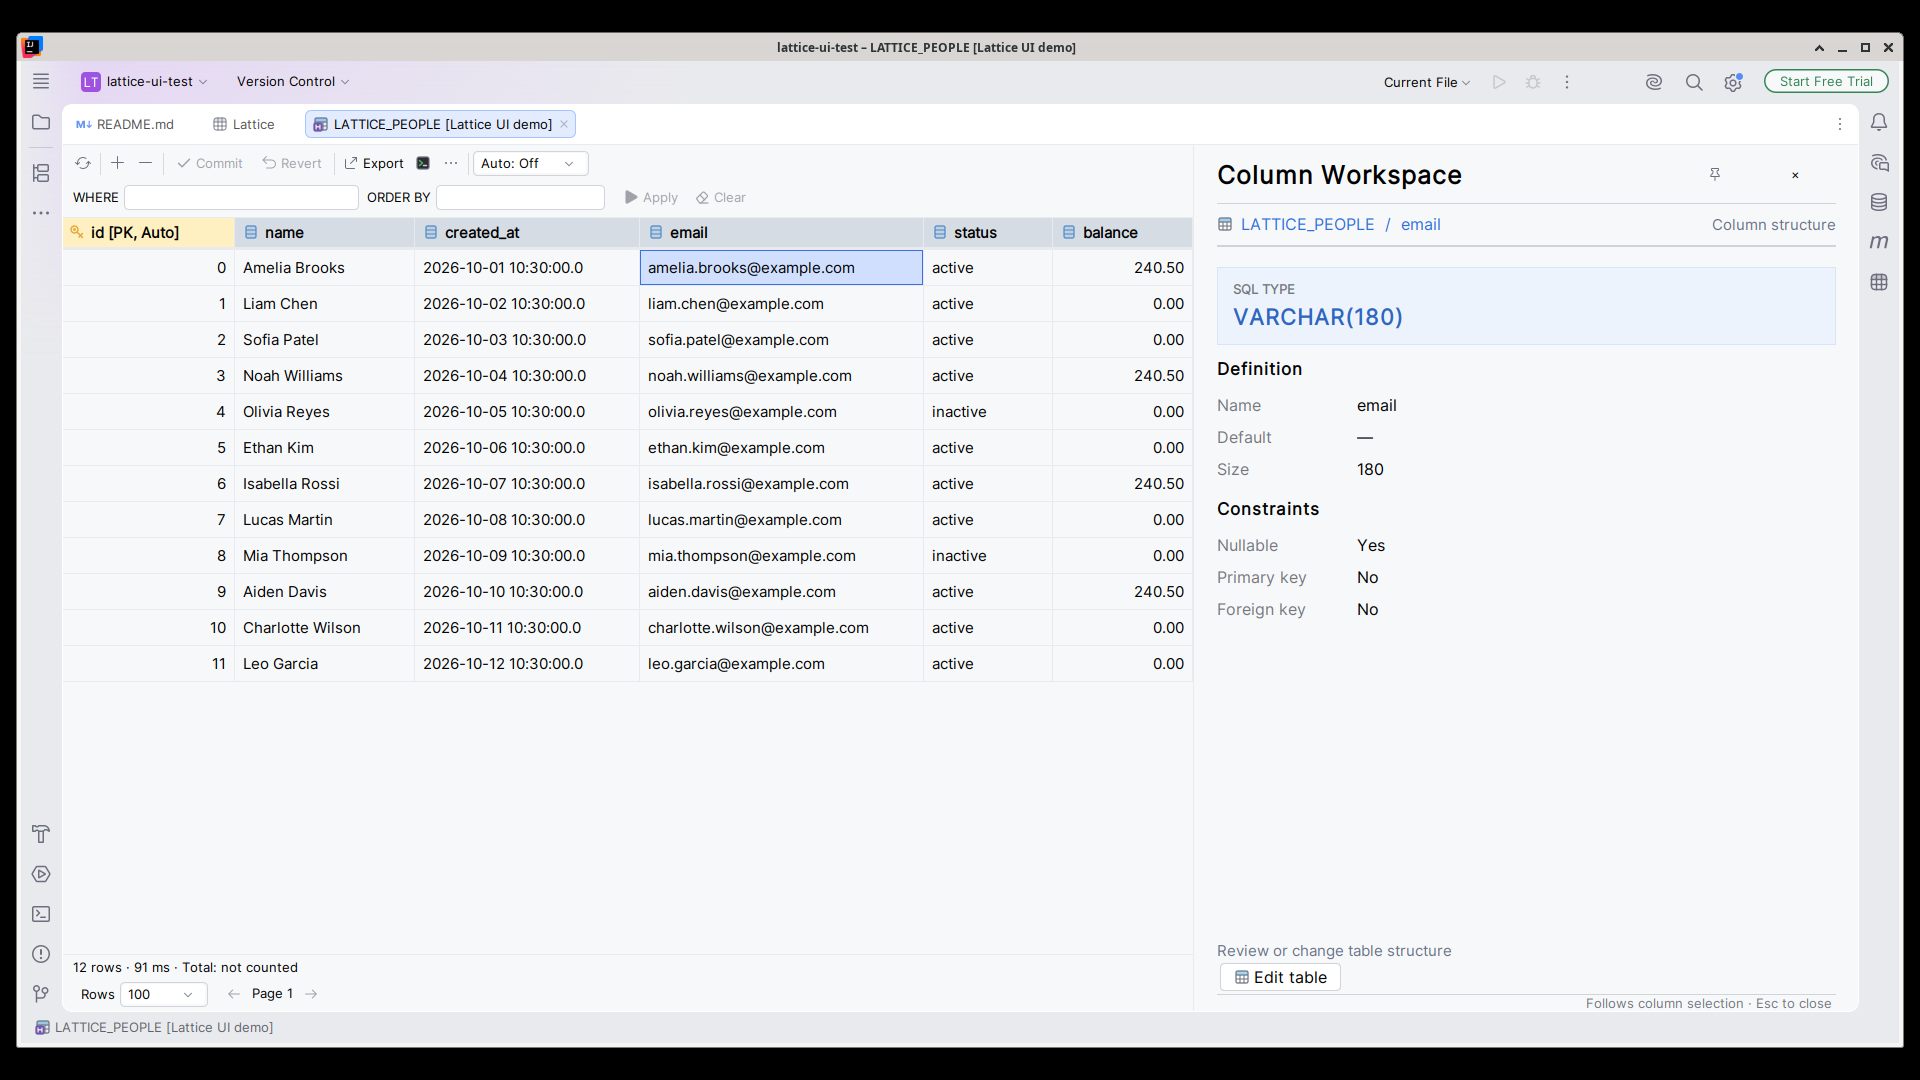
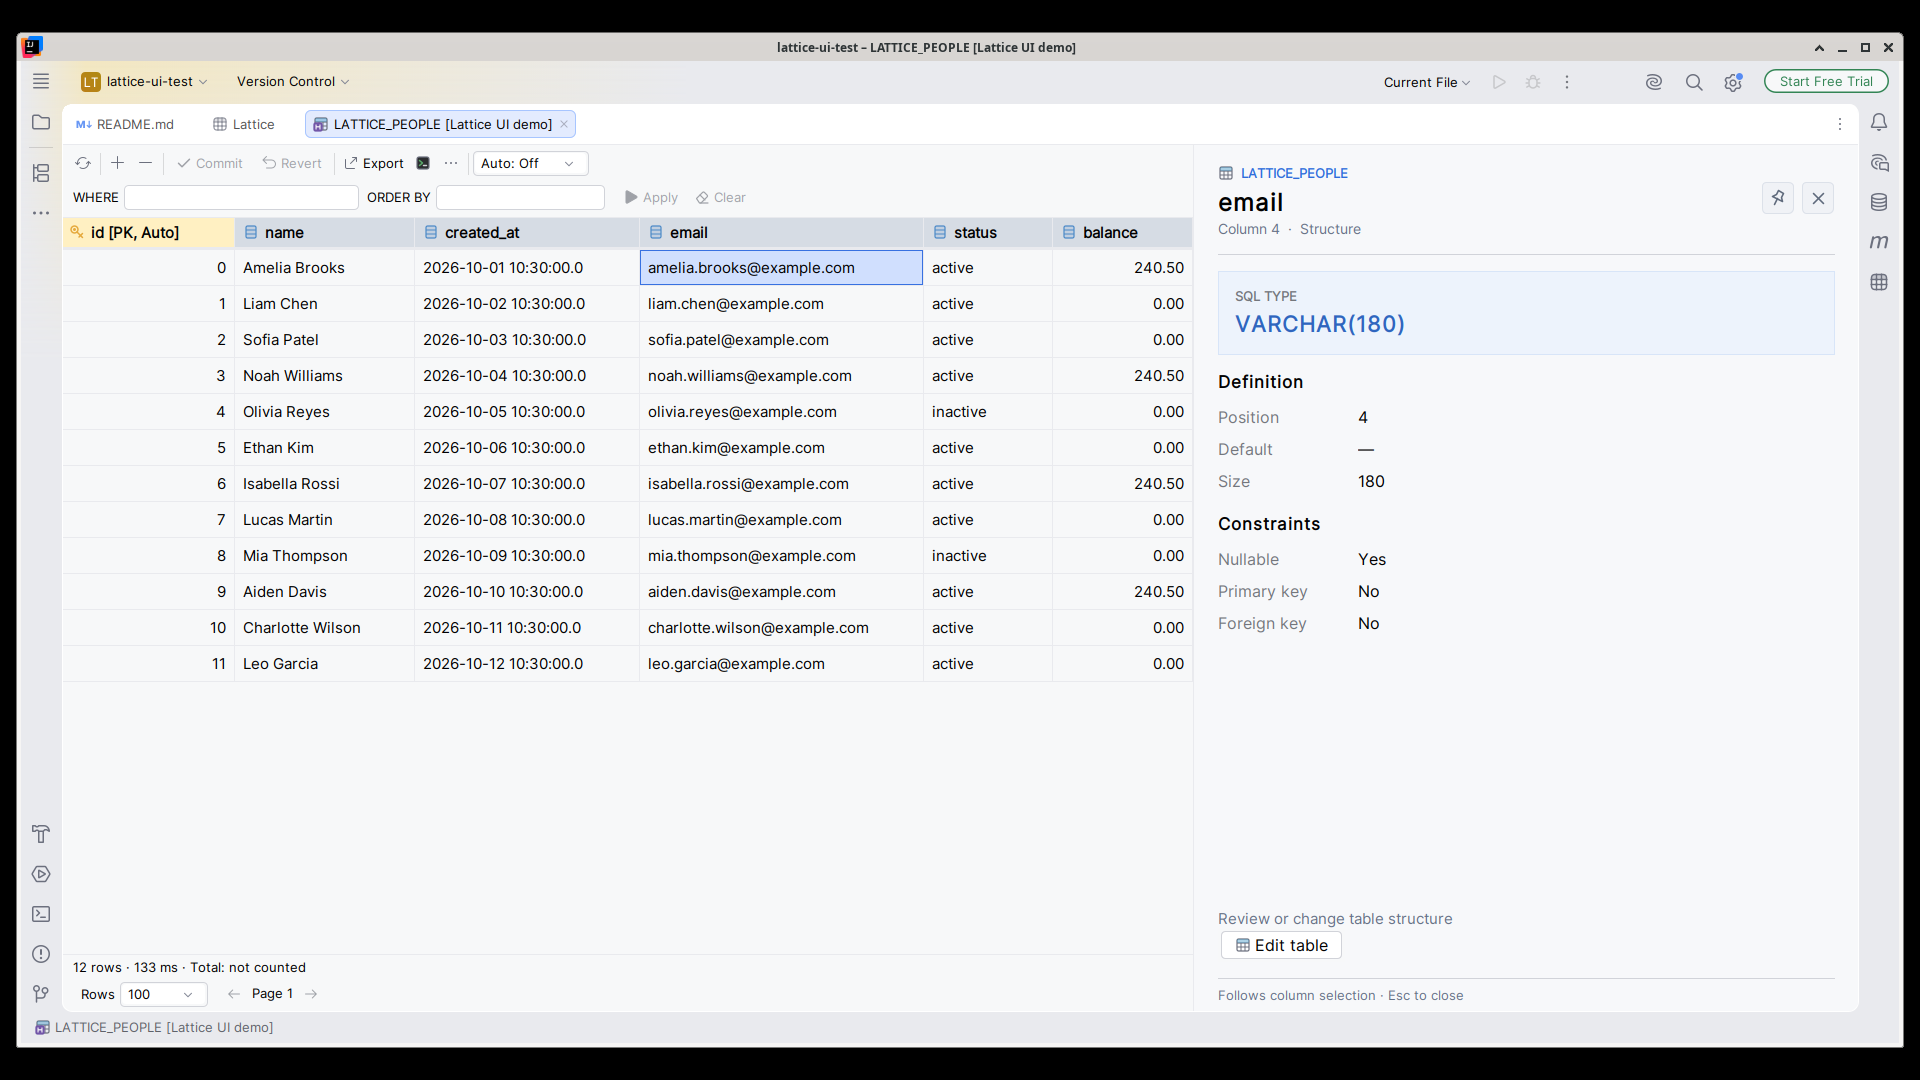
Save refined native inspector captures and correct close assertion

diff --git a/src/uiTest/kotlin/com/segfault03/ideadb/ui/IntellijUiScreenshotTest.kt b/src/uiTest/kotlin/com/segfault03/ideadb/ui/IntellijUiScreenshotTest.kt
@@ -1175,8 +1175,9 @@ class IntellijUiScreenshotTest {
                 val closeDetails = details.x { byAccessibleName("Close details panel") }.waitFound()
                 closeDetails.moveMouse(Point(closeDetails.component.width / 2, closeDetails.component.height / 2))
                 captureScreen(screenshotsDirectory.resolve("value-workspace-close-hover.png"))
+                val liveDetails = details.component
                 closeDetails.click()
-                waitUntil("close control removes the inspector from the editor") { !details.component.isShowing() }
+                waitUntil("close control removes the inspector from the editor") { !liveDetails.isShowing() }
                 dataGrid.clickCell(0, 3)
                 waitUntil("cell selection reopens the inspector after closing it") {
                     details.component.isShowing() && details.hasSubtext("Row 1") && details.hasSubtext("Column 4")

diff --git a/docs/SCRIPTS.md b/docs/SCRIPTS.md
@@ -130,7 +130,7 @@ Set `LATTICE_UI_IDE_HOME` to an installed Linux IDEA directory to launch another
 
 For a faster review of connection-dialog spacing, explorer overflow, table editor/menu surfaces, auto-refresh sizing and active glyph colors, set `LATTICE_UI_STYLE_ONLY=true` (direct Gradle: `-Plattice.ui.styleOnly=true`). This still opens and edits the production UI inside the full IDE, then stops after those checks; omit it for the complete review.
 
-For a focused native Value Workspace capture, set `LATTICE_UI_CELL_DETAILS_ONLY=true` with the Linux review wrapper (direct Gradle: `-Plattice.ui.review=true -Plattice.ui.cellDetailsOnly=true`). It opens the committed Ada Lovelace row in the real IDE, captures the cell details panel, verifies pin persistence while selecting another cell, opens column details from the header, double-clicks the value area into edit mode, and switches the running IDE through an available light theme and back. Screenshots and `runtime-evidence.txt` are written to the selected review output directory; the focused flow exits before the longer table review.
+For a focused native cell inspector capture, set `LATTICE_UI_CELL_DETAILS_ONLY=true` with the Linux review wrapper (direct Gradle: `-Plattice.ui.review=true -Plattice.ui.cellDetailsOnly=true`). It opens a populated 12-row fixture in the real IDE, captures cell and header details, verifies both pin states while selecting another cell, double-clicks the value area into edit mode, checks close/reopen, and switches the running IDE through an opposite theme and back. Screenshots and `runtime-evidence.txt` are written to the selected review output directory; the focused flow exits before the longer table review.
 
 Direct Gradle/capture reviews accept `-Plattice.ui.scale=1.25` or `1.5` for
 larger IDE UI sizes. The default remains 100%; this changes IDE UI scaling
